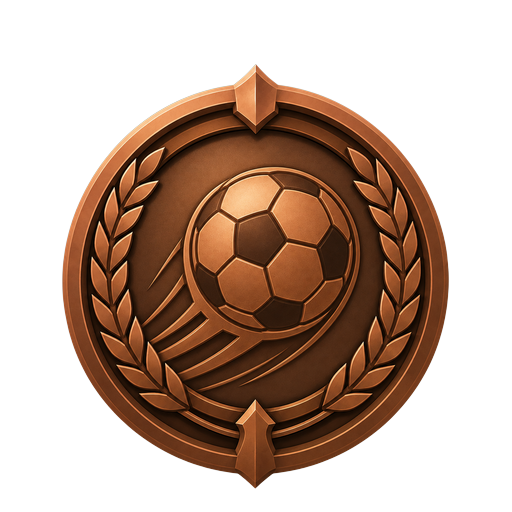
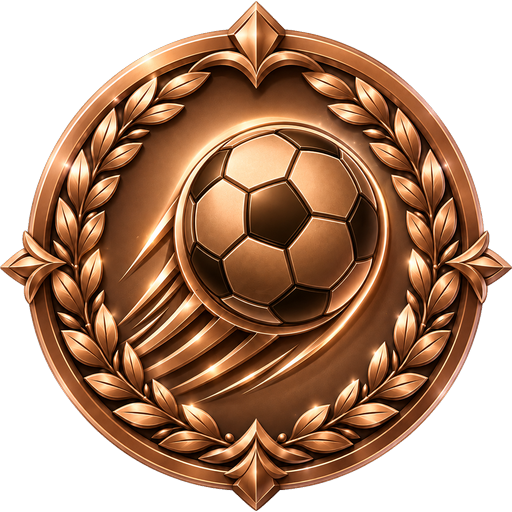
painel do lobby

diff --git a/frontend/src/components/PainelDoJogador.jsx b/frontend/src/components/PainelDoJogador.jsx
@@ -30,10 +30,10 @@ export default function PainelDoJogador({ userId }) {
   // é o que dá aquela coceira de "falta pouco".
   const candidatos = [];
   for (const t of titulos?.quiz || []) {
-    if (t.proximo) candidatos.push({ nome: t.proximo.nome, atual: t.acertos, alvo: t.proximo.min });
+    if (t.proximo) candidatos.push({ nome: t.proximo.nome, atual: t.acertos, alvo: t.proximo.min, logo: t.proximo.logo });
   }
   for (const t of titulos?.stop || []) {
-    if (t.proximo) candidatos.push({ nome: t.proximo.nome, atual: t.stops, alvo: t.proximo.min });
+    if (t.proximo) candidatos.push({ nome: t.proximo.nome, atual: t.stops, alvo: t.proximo.min, logo: t.proximo.logo });
   }
   const proximoTitulo = candidatos
     .filter((c) => c.atual > 0)
@@ -94,7 +94,16 @@ export default function PainelDoJogador({ userId }) {
       {proximoTitulo && (
         <Link to="/perfil" className="painel-item painel-item-titulo" title="Ver todos os seus títulos">
           <div className="painel-item-topo">
-            <span className="painel-titulo-medalha">🏅</span>
+            {proximoTitulo.logo ? (
+              <img
+                src={proximoTitulo.logo}
+                alt=""
+                className="painel-titulo-logo"
+                onError={(e) => { e.currentTarget.style.display = "none"; }}
+              />
+            ) : (
+              <span className="painel-titulo-medalha">🏅</span>
+            )}
             <div className="painel-item-textos">
               <span className="painel-item-jogo">Próximo título</span>
               <span className="painel-item-principal">{proximoTitulo.nome}</span>

diff --git a/frontend/src/styles.css b/frontend/src/styles.css
@@ -5231,3 +5231,14 @@ span.votacao-trilha-item {
   .titulos-vitrine-nome { font-size: 11px; }
   .titulos-vitrine-tag, .titulos-vitrine-req { font-size: 10px; }
 }
+
+/* Logo do próximo título no painel do jogador (Lobby) — esmaecida por ser
+   uma meta ainda não conquistada, igual à vitrine do perfil. */
+.painel-titulo-logo {
+  width: 34px;
+  height: 34px;
+  object-fit: contain;
+  filter: grayscale(1);
+  opacity: 0.55;
+  flex-shrink: 0;
+}
